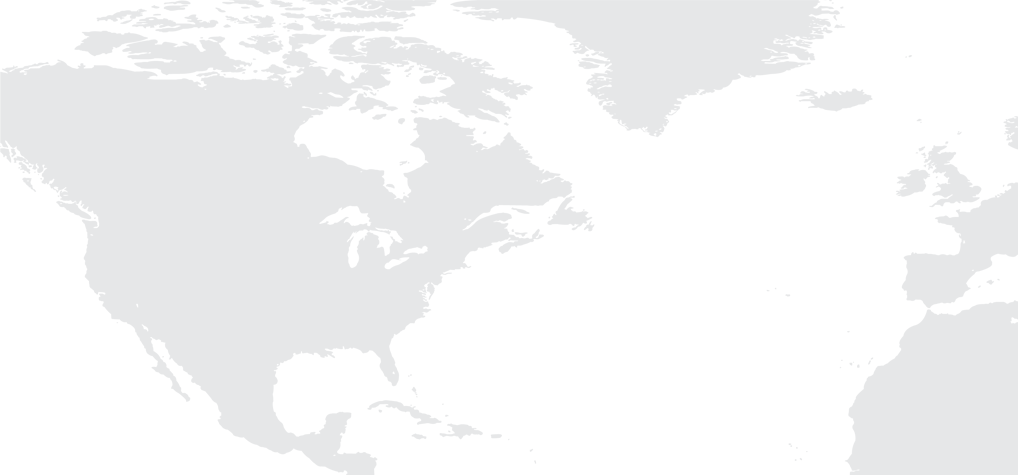
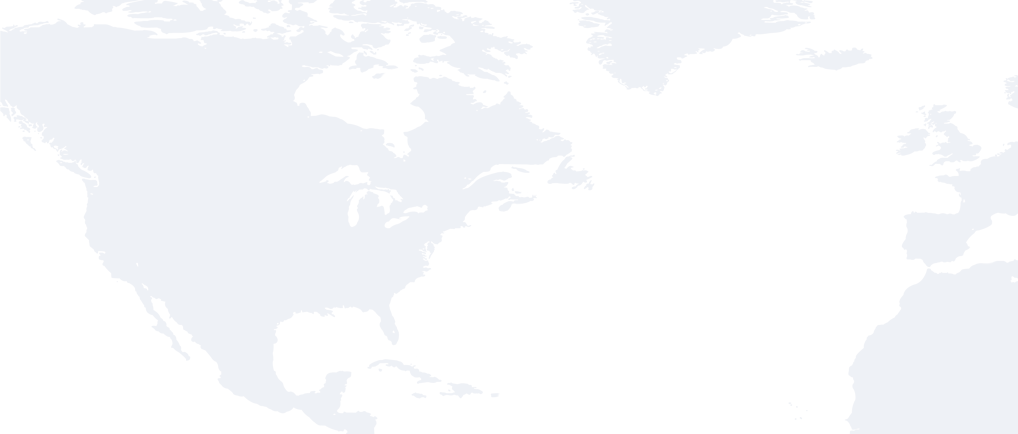
Keep going

diff --git a/index.html b/index.html
@@ -129,56 +129,56 @@
     <div class="map-contain">
     <div class="map-wrap">
 
-      <h1><span>Cogeco Peer 1</span> this is a catchy headline about colocation services.</h1>
-      <div class="location-1"></div>
-      <div class="location-2"></div>
-      <div class="location-3"></div>
-      <div class="location-4"></div>
-      <div class="location-5"></div>
-      <div class="location-6"></div>
-      <div class="location-7"></div>
-      <div class="location-8"></div>
-      <div class="location-9"></div>
-      <div class="location-10"></div>
-      <div class="location-11"></div>
-      <div class="location-12"></div>
+      <h1><span>Colocation Services</h1>
+      <div class="location-1"></div><div class="pulse-1"></div>
+      <div class="location-2"></div><div class="pulse-2"></div>
+      <div class="location-3"></div><div class="pulse-3"></div>
+      <div class="location-4"></div><div class="pulse-4"></div>
+      <div class="location-5"></div><div class="pulse-5"></div>
+      <div class="location-6"></div><div class="pulse-6"></div>
+      <div class="location-7"></div><div class="pulse-7"></div>
+      <div class="location-8"></div><div class="pulse-8"></div>
+      <div class="location-9"></div><div class="pulse-9"></div>
+      <div class="location-10"></div><div class="pulse-10"></div>
+      <div class="location-11"></div><div class="pulse-11"></div>
+      <div class="location-12"></div><div class="pulse-12"></div>
     </div>
   </div>
   <div id="location-1">
     Miami, FL<br/><a href="https://cp1.com/2wZvxsp"><img src="images/download.png"/>Download datasheet</a>
   </div>
   <div id="location-2">
-    Los Angeles, CA<br/><a href="https://cp1.com/2wZvxsp"><img src="images/download.png"/>Download datasheet</a>
+    Los Angeles, CA<br/><a href="https://cp1.com/2wZZbxz"><img src="images/download.png"/>Download datasheet</a>
   </div>
   <div id="location-3">
-    Vancouver, BC<br/><a href="https://cp1.com/2wZvxsp"><img src="images/download.png"/>Download datasheet</a>
+    Vancouver, BC<br/><a href="https://cp1.com/2wZh8N2"><img src="images/download.png"/>Download datasheet</a>
   </div>
   <div id="location-4">
-    New York, NY<br/><a href="https://cp1.com/2wZvxsp"><img src="images/download.png"/>Download datasheet</a>
+    New York, NY<br/><a href="https://cp1.com/2x478lo"><img src="images/download.png"/>Download datasheet</a>
   </div>
   <div id="location-5">
-    Barrie, ON<br/><a href="https://cp1.com/2wZvxsp"><img src="images/download.png"/>Download datasheet</a>
+    Barrie, ON<br/><a href="https://cp1.com/2x16NQt"><img src="images/download.png"/>Download datasheet</a>
   </div>
   <div id="location-6">
-    Front St, Toronto<br/><a href="https://cp1.com/2wZvxsp"><img src="images/download.png"/>Download datasheet</a>
+    Front St, Toronto<br/><a href="https://cp1.com/2x19dP4"><img src="images/download.png"/>Download datasheet</a>
   </div>  
   <div id="location-7">
-    King St, Toronto<br/><a href="https://cp1.com/2wZvxsp"><img src="images/download.png"/>Download datasheet</a>
+    King St, Toronto<br/><a href="https://cp1.com/2x0T9wW"><img src="images/download.png"/>Download datasheet</a>
   </div>
   <div id="location-8">
-    Pullman CT, Toronto<br/><a href="https://cp1.com/2wZvxsp"><img src="images/download.png"/>Download datasheet</a>
+    Pullman CT, Toronto<br/><a href="https://cp1.com/2wZ1ktF"><img src="images/download.png"/>Download datasheet</a>
   </div>
   <div id="location-9">
-    Horner Ave, Toronto<br/><a href="https://cp1.com/2wZvxsp"><img src="images/download.png"/>Download datasheet</a>
+    Horner Ave, Toronto<br/><a href="https://cp1.com/2wWOPi6"><img src="images/download.png"/>Download datasheet</a>
   </div>
   <div id="location-10">
-    Kirkland, Montreal<br/><a href="https://cp1.com/2wZvxsp"><img src="images/download.png"/>Download datasheet</a>
+    Kirkland, Montreal<br/><a href="https://cp1.com/2x17tFL"><img src="images/download.png"/>Download datasheet</a>
   </div>
   <div id="location-11">
-    Beaver Hall, Montreal<br/><a href="https://cp1.com/2wZvxsp"><img src="images/download.png"/>Download datasheet</a>
+    Beaver Hall, Montreal<br/><a href="https://cp1.com/2wXZbOM"><img src="images/download.png"/>Download datasheet</a>
   </div>
   <div id="location-12">
-    Portsmouth, UK<br/><a href="https://cp1.com/2wZvxsp"><img src="images/download.png"/>Download datasheet</a>
+    Portsmouth, UK<br/><a href="https://cp1.com/2x1Jkif"><img src="images/download.png"/>Download datasheet</a>
   </div>  
 
   </body>

diff --git a/stylesheets/site.css b/stylesheets/site.css
@@ -7,43 +7,74 @@ body {
 }
 h1 {
 	padding: 5% 20% 0 5%;
-  font-size: 22px;
-  color: #037BAC;
+  font-size: 40px;
+  color: #01a8ec;
   line-height: 1.2;
+  
 }
 h1 span {
   font-family: NexaBold;
 }
 .map-contain {
 	display: block;
-	width: 80%;
+	width: 95%;
 	height: auto;
-	margin: 20px auto;
+	margin: 2.5%;
 }
 .map-wrap {
 	display: block;
 	position: relative;
 	width: 100%;
-	border: 1px solid;
 	height: 0;
-	padding-bottom: 46.6601179%;
-	background: url(../images/world-map.png);
+	padding-bottom: 42.632613%;
+	background: url(../images/world-map.png), url(../images/bg-lines.png);
 	background-size: 100%;
 }
 div[class*="location"] {
-	display: block;
-	width: 10px;
-	height: 10px;
-	background: #037BAC;
-	border-radius: 50%;
-	position: absolute;
-	cursor: pointer;
-	cursor: hand;
-  font-size: 20px;
-  transition: all 0.1s ease-in-out;
-	box-shadow: 0 0 0 rgba(3,123,172, 0.4);
-	animation: pulse 1s infinite;
+  width: 20px;
+  height: 20px;
+  border-radius: 50% 50% 50% 0;
+  background: #01a8ec;
+  position: absolute;
+  cursor: pointer;
+  cursor: hand;
+  transform: rotate(-45deg);
   z-index: 25;
+}
+div[class*="location"]:after {
+  content: '';
+  width: 8px;
+  height: 8px;
+  margin: 6px 0 0 6px;
+  background: #ffffff;
+  position: absolute;
+  border-radius: 50%;
+}
+div[class*="location"]:hover {
+  background: #037BAC;
+}
+div[class*="pulse"] {
+  background: rgba(0,0,0,0.2);
+  border-radius: 50%;
+  height: 14px;
+  width: 14px;
+  position: absolute;
+  margin: 20px 0px 0px 3px;
+  transform: rotateX(55deg);
+  z-index: 1;
+}
+div[class*="pulse"]:after {
+  content: "";
+  border-radius: 50%;
+  height: 40px;
+  width: 40px;
+  position: absolute;
+  margin: -13px 0 0 -13px;
+  animation: pulsate 1s ease-out;
+  animation-iteration-count: infinite;
+  opacity: 0;
+  box-shadow: 0 0 1px 2px #89849b;
+  animation-delay: 1.1s;
 }
 div[id*="location"] a {
   opacity: 1;
@@ -77,6 +108,19 @@ connection {
 .tippy-backdrop a {
   display: none;
 }
+@keyframes pulsate {
+  0% {
+    transform: scale(0.1, 0.1);
+    opacity: 0;
+  }
+  50% {
+    opacity: 1;
+  }
+  100% {
+    transform: scale(1.2, 1.2);
+    opacity: 0;
+  }
+}
 @keyframes pulse {
   0% {
     box-shadow: 0 0 0 0 rgba(3,123,172, 0.4);
@@ -88,71 +132,64 @@ connection {
       box-shadow: 0 0 0 0 rgba(3,123,172, 0);
   }
 }
-div[class*="location"]:hover {
-	display: block;
-	background: #037BAC;
-	border-radius: 50px;
-	position: absolute;
-	animation: none;
-}
 /* Miami, FL */
-.location-1 {
-	top: 80%;
+.location-1, .pulse-1 {
+	top: 74%;
 	left: 38.5%;
 }
 /* Los Angeles, CA */
-.location-2 {
-	top: 66.5%;
+.location-2, .pulse-2 {
+	top: 59.5%;
 	left: 11.5%;
 }
 /* Vancouver, BC */
-.location-3 {
-	top: 44%;
+.location-3, .pulse-3 {
+	top: 38%;
 	left: 9%;
 }
 /* New York, NY */
-.location-4 {
-	top: 56.5%;
+.location-4, .pulse-4 {
+	top: 50.5%;
 	left: 43%;
 }
 /* Barrie, ON */
-.location-5 {
-	top: 50.5%;
+.location-5, .pulse-5 {
+	top: 44.5%;
 	left: 39%;
 }
 /* Front St, Toronto, ON */
-.location-6 {
-	top: 50%;
+.location-6, .pulse-6 {
+	top: 44%;
   left: 40%;
 }
 /* King St, Toronto ON */
-.location-7 {
-  top: 50%;
-  left: calc(40% + 9px);
+.location-7, .pulse-7 {
+  top: 44%;
+  left: calc(40% + 14px);
 }
 /* Pullman Ct, Toronto, ON */
-.location-8 {
-  top: calc(50% + 9px);
+.location-8, .pulse-8 {
+  top: calc(44% + 14px);
   left: 40.25%;
 }
 /* Horner Ave, Toronto, ON */
-.location-9 {
-  top: calc(50% + 9px);
-  left: calc(40.25% + 9px);
+.location-9, .pulse-9 {
+  top: calc(44% + 14px);
+  left: calc(40.25% + 14px);
 }
 /* Kirkland, MTL */
-.location-10 {
-	top: 48.5%;
+.location-10, .pulse-10 {
+	top: 42.5%;
 	left: 44%;
 }
 /* Beaver Hall, MTL */
-.location-11 {
-	top: 47.5%;
+.location-11, .pulse-11 {
+	top: 41.5%;
 	left: 45%;
 }
 /* Portsmouth, UK */
-.location-12 {
-	top: 41.5%;
+.location-12, .pulse-12 {
+	top: 35.5%;
 	left: 94.5%;
 }
 @media only screen and (max-width: 700px) {
@@ -172,6 +209,12 @@ div[class*="location"]:hover {
     transition: all 0.1s ease-in-out;
     box-shadow: 0 0 0 rgba(3,123,172, 0.4);
     animation: pulse 2s infinite;
+  }
+  div[class*="pulse"] {
+    display: none;
+  }
+  div[class*="location"]:after {
+    display: none;
   }
   /* Front St, Toronto, ON */
   .location-6 {
